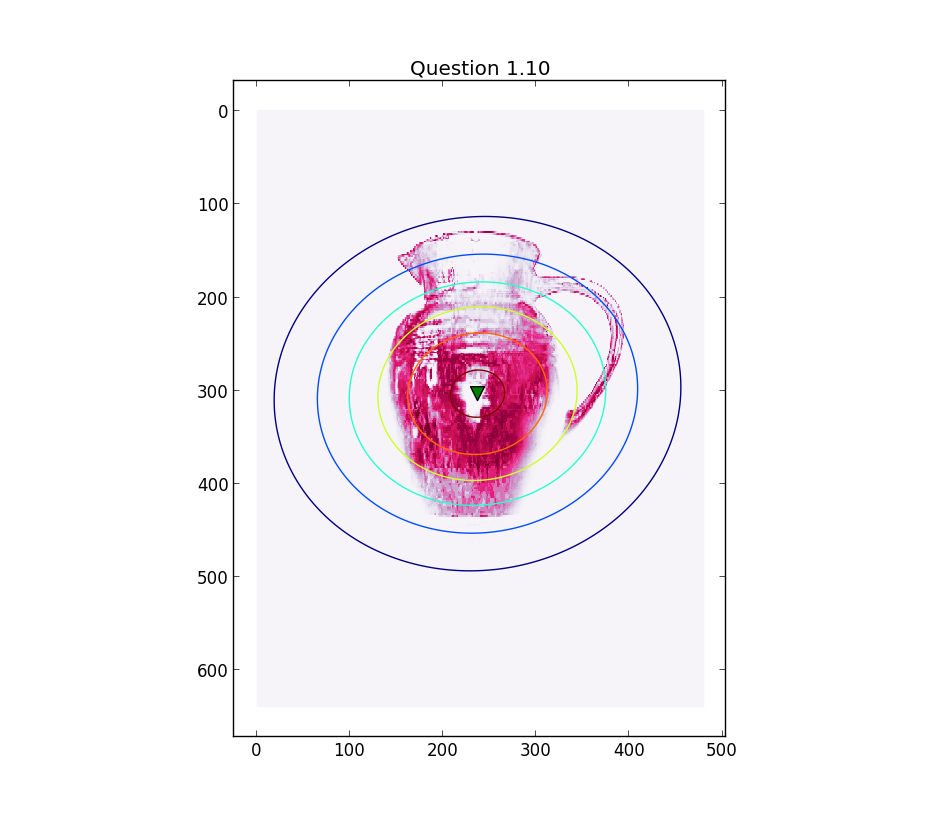
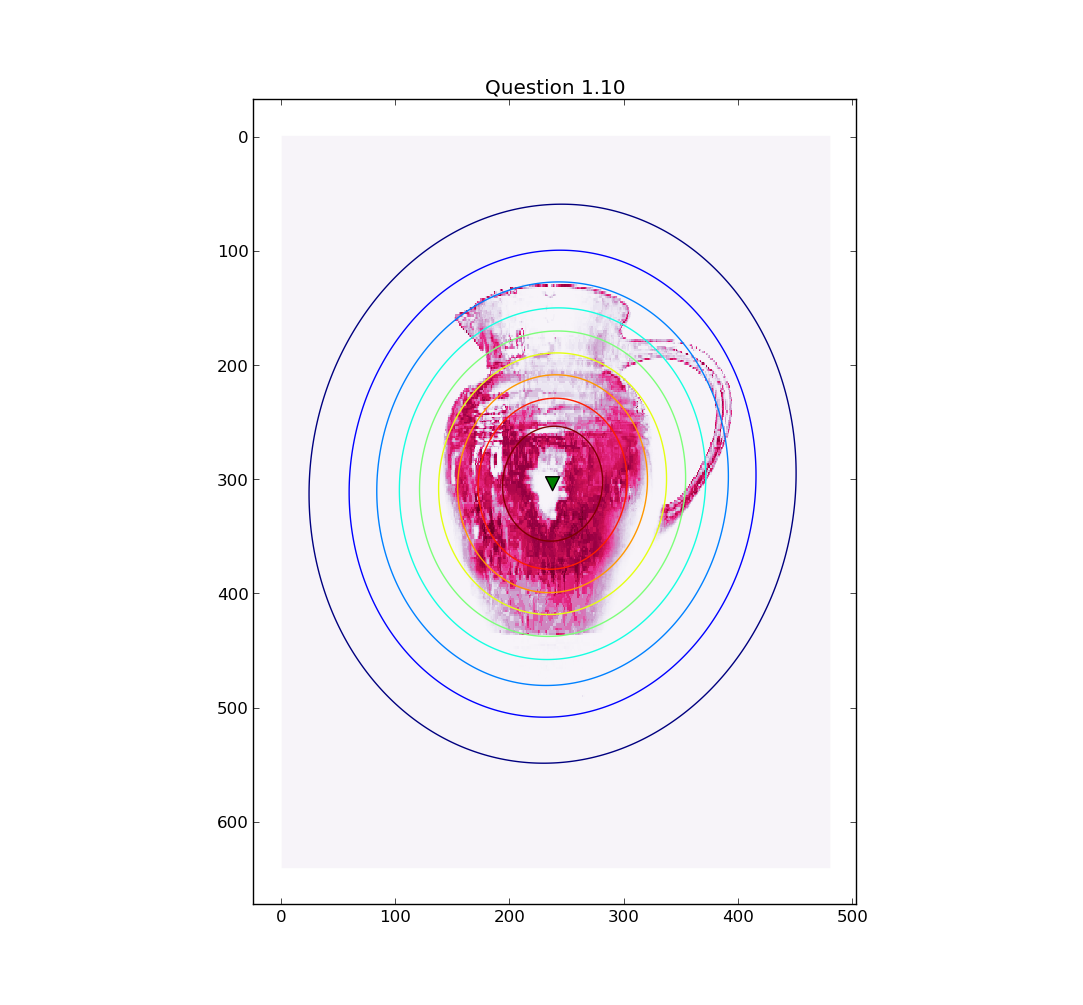
SHIP IIIIT

diff --git a/src/assignment1.py b/src/assignment1.py
@@ -194,11 +194,11 @@ weighted_points = [np.array([x,y])*probabilities[x,y] for x in range(xsize) for 
 Z = sum(probabilities.reshape(ysize*xsize))
 q_hat = sum(weighted_points) / Z
 
-# Spacial covariance
+# Spatial covariance
 prob_sum = np.zeros((2,2))
 for x in range(xsize):
     for y in range(ysize):
-        q = np.array([y,x]).reshape(2,1)
+        q = np.array([x,y]).reshape(2,1)
         part = np.dot((q-q_hat),(q-q_hat).T) * probabilities[x,y]
         prob_sum += part
 
@@ -210,7 +210,7 @@ probabilities = np.array([prob_density(np.array([x,y]), q_hat, C, C_inv) for x i
 pl.figure()
 pl.title('Question 1.10')
 pl.imshow(pitcher_img, interpolation='nearest', cmap=COLORMAP)
-pl.contour(probabilities)
+pl.contour(probabilities, 10)
 pl.scatter(q_hat[1], q_hat[0], c='g', s=100, marker='v')
 pl.show()
 
